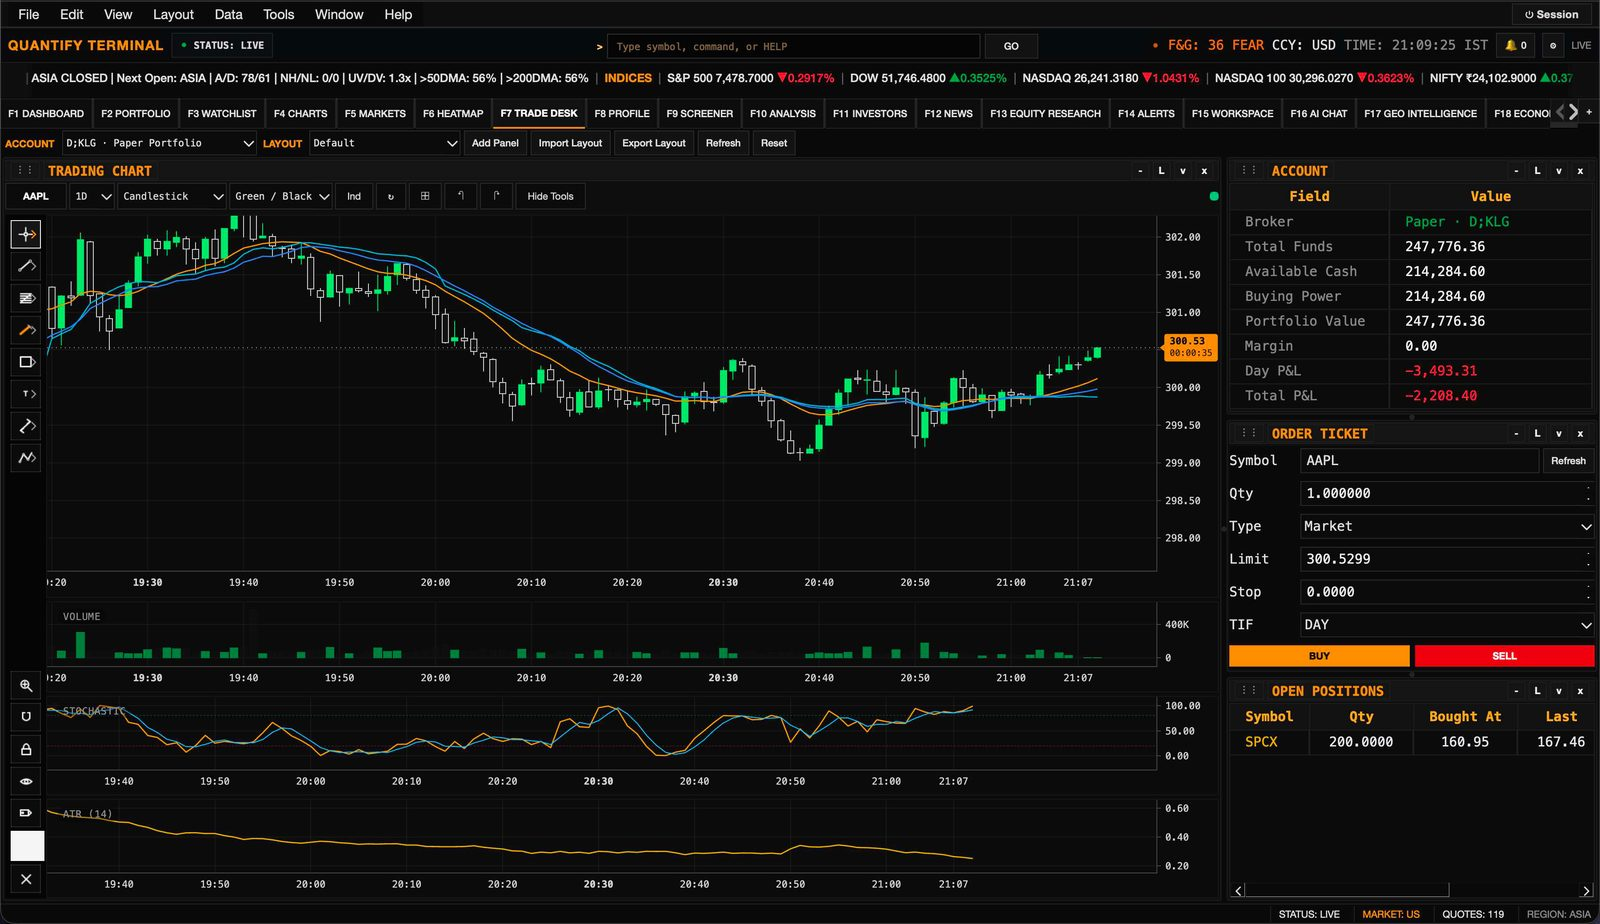
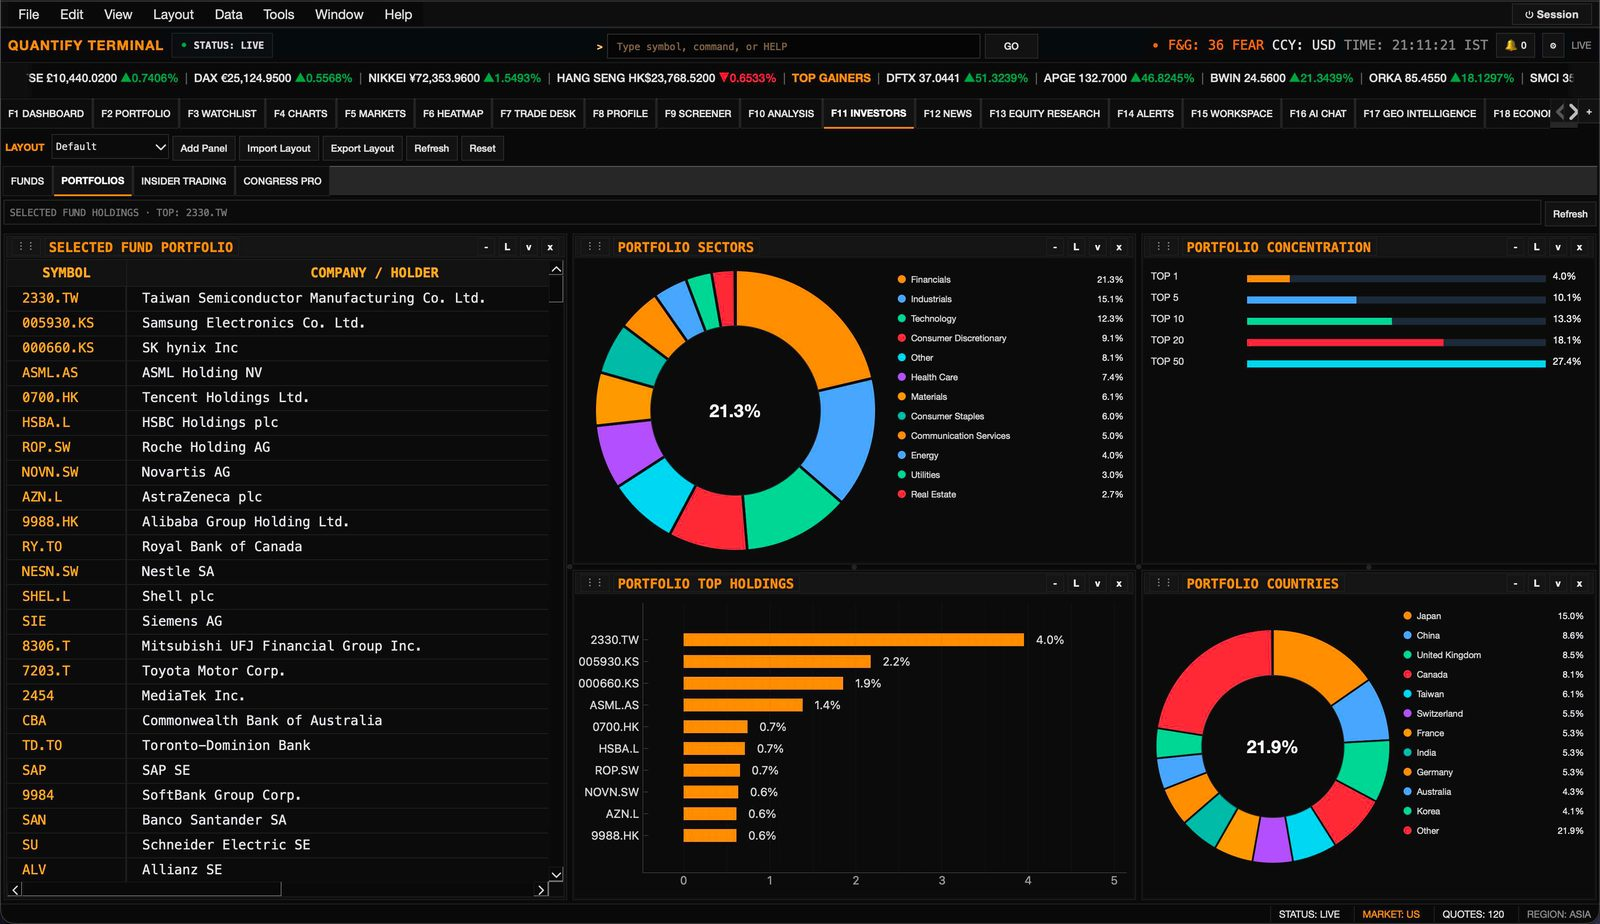
Fix Portfolio screenshot + add Trade desk, Transactions, Income statement
Portfolio card/marquee now use the real Portfolio overview (holdings,
allocation, sector/country mix, concentration) instead of the trade-desk
page. Add three previously-missing screens: Trade desk (account/order
ticket/positions), Portfolio transactions, and the 10Y income statement.
Bump image_32 to ?v=3 to bust cache.

diff --git a/features.html b/features.html
@@ -127,7 +127,7 @@
               </div>
             </div>
             <div class="media-panel reveal">
-              <img src="/Public/qt_images/optimized/image_32.jpg?v=2" alt="Portfolio workspace with holdings table, performance chart, transactions, and position heatmap" width="1600" height="924" loading="lazy" decoding="async">
+              <img src="/Public/qt_images/optimized/image_32.jpg?v=3" alt="Portfolio workspace with holdings table, performance chart, transactions, and position heatmap" width="1600" height="924" loading="lazy" decoding="async">
             </div>
           </article>
 
@@ -353,8 +353,8 @@
             <div class="copy"><h3>Watchlists</h3><p>Custom watchlists with an inline candlestick price preview.</p></div>
           </article>
           <article class="image-card reveal">
-            <img src="/Public/qt_images/optimized/image_32.jpg?v=2" alt="Portfolio with holdings, performance, transactions, and position heatmap" width="1600" height="924" loading="lazy" decoding="async">
-            <div class="copy"><h3>Portfolio</h3><p>Holdings, performance, transactions, and a position heatmap.</p></div>
+            <img src="/Public/qt_images/optimized/image_32.jpg?v=3" alt="Portfolio overview with holdings, allocation, sector and country mix, and concentration" width="1600" height="924" loading="lazy" decoding="async">
+            <div class="copy"><h3>Portfolio</h3><p>Holdings, allocation, sector and country mix, and concentration.</p></div>
           </article>
           <article class="image-card reveal">
             <img src="/Public/qt_images/optimized/image_33.jpg?v=2" alt="Command dashboard with gainers, losers, indices, sectors, chart, and news" width="1600" height="924" loading="lazy" decoding="async">
@@ -367,6 +367,18 @@
           <article class="image-card reveal">
             <img src="/Public/qt_images/optimized/image_35.jpg?v=2" alt="Product mix with revenue treemap, donut, and product performance heatmap" width="1600" height="924" loading="lazy" decoding="async">
             <div class="copy"><h3>Product mix</h3><p>Revenue by product line with treemap, donut, demand signals, and margins.</p></div>
+          </article>
+          <article class="image-card reveal">
+            <img src="/Public/qt_images/optimized/image_36.jpg?v=2" alt="Trade desk with account balances, order ticket, open positions, and P&amp;L" width="1600" height="924" loading="lazy" decoding="async">
+            <div class="copy"><h3>Trade desk</h3><p>Account balances, order ticket, open positions, and live P&amp;L.</p></div>
+          </article>
+          <article class="image-card reveal">
+            <img src="/Public/qt_images/optimized/image_37.jpg?v=2" alt="Portfolio transactions and management with full transaction history" width="1600" height="924" loading="lazy" decoding="async">
+            <div class="copy"><h3>Transactions</h3><p>Full portfolio transaction history and position management.</p></div>
+          </article>
+          <article class="image-card reveal">
+            <img src="/Public/qt_images/optimized/image_38.jpg?v=2" alt="Ten-year income statement with debt and liquidity detail" width="1600" height="924" loading="lazy" decoding="async">
+            <div class="copy"><h3>Income statement</h3><p>Ten-year income statement with debt, liquidity, and margin detail.</p></div>
           </article>
         </div>
       </div>

diff --git a/index.html b/index.html
@@ -205,7 +205,7 @@
           <figure class="marquee-item"><img src="/Public/qt_images/optimized/image_33.jpg?v=2" alt="Command dashboard workspace" width="1600" height="924" loading="lazy" decoding="async"></figure>
           <figure class="marquee-item"><img src="/Public/qt_images/optimized/image_30.jpg?v=2" alt="Market overview workspace" width="1600" height="924" loading="lazy" decoding="async"></figure>
           <figure class="marquee-item"><img src="/Public/qt_images/optimized/equity-research.webp?v=2" alt="Equity research workspace" width="1600" height="924" loading="lazy" decoding="async"></figure>
-          <figure class="marquee-item"><img src="/Public/qt_images/optimized/image_32.jpg?v=2" alt="Portfolio intelligence workspace" width="1600" height="924" loading="lazy" decoding="async"></figure>
+          <figure class="marquee-item"><img src="/Public/qt_images/optimized/image_32.jpg?v=3" alt="Portfolio intelligence workspace" width="1600" height="924" loading="lazy" decoding="async"></figure>
           <figure class="marquee-item"><img src="/Public/qt_images/optimized/image_26.jpg?v=2" alt="News &amp; research desk workspace" width="1600" height="924" loading="lazy" decoding="async"></figure>
           <figure class="marquee-item"><img src="/Public/qt_images/optimized/image_05.jpg?v=2" alt="Relationship maps workspace" width="1600" height="924" loading="lazy" decoding="async"></figure>
           <figure class="marquee-item"><img src="/Public/qt_images/optimized/image_04.jpg?v=2" alt="Supply chain map workspace" width="1600" height="924" loading="lazy" decoding="async"></figure>
@@ -220,7 +220,7 @@
           <figure class="marquee-item" aria-hidden="true"><img src="/Public/qt_images/optimized/image_33.jpg?v=2" alt="Command dashboard workspace" width="1600" height="924" loading="lazy" decoding="async"></figure>
           <figure class="marquee-item" aria-hidden="true"><img src="/Public/qt_images/optimized/image_30.jpg?v=2" alt="Market overview workspace" width="1600" height="924" loading="lazy" decoding="async"></figure>
           <figure class="marquee-item" aria-hidden="true"><img src="/Public/qt_images/optimized/equity-research.webp?v=2" alt="Equity research workspace" width="1600" height="924" loading="lazy" decoding="async"></figure>
-          <figure class="marquee-item" aria-hidden="true"><img src="/Public/qt_images/optimized/image_32.jpg?v=2" alt="Portfolio intelligence workspace" width="1600" height="924" loading="lazy" decoding="async"></figure>
+          <figure class="marquee-item" aria-hidden="true"><img src="/Public/qt_images/optimized/image_32.jpg?v=3" alt="Portfolio intelligence workspace" width="1600" height="924" loading="lazy" decoding="async"></figure>
           <figure class="marquee-item" aria-hidden="true"><img src="/Public/qt_images/optimized/image_26.jpg?v=2" alt="News &amp; research desk workspace" width="1600" height="924" loading="lazy" decoding="async"></figure>
           <figure class="marquee-item" aria-hidden="true"><img src="/Public/qt_images/optimized/image_05.jpg?v=2" alt="Relationship maps workspace" width="1600" height="924" loading="lazy" decoding="async"></figure>
           <figure class="marquee-item" aria-hidden="true"><img src="/Public/qt_images/optimized/image_04.jpg?v=2" alt="Supply chain map workspace" width="1600" height="924" loading="lazy" decoding="async"></figure>
